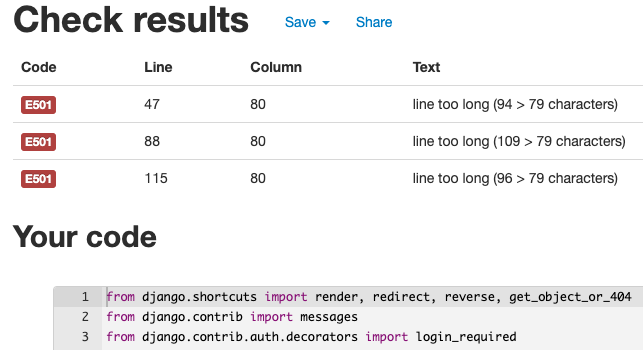
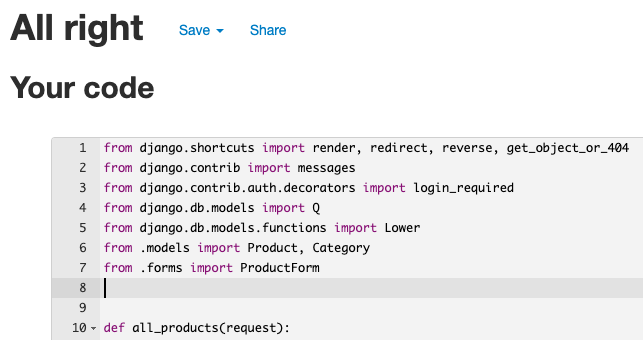
Make code PEP8 compliant

diff --git a/checkout/webhook_handler.py b/checkout/webhook_handler.py
@@ -65,8 +65,8 @@ class Webhook_Handler:
                 profile.default_country = shipping_details.address.country
                 profile.default_postcode = shipping_details.address.postal_code
                 profile.default_town_or_city = shipping_details.address.city
-                profile.default_street_address1 = shipping_details.address.line1
-                profile.default_street_address2 = shipping_details.address.line2
+                profile.default_street_address1 = shipping_details.address.line1  # noqa
+                profile.default_street_address2 = shipping_details.address.line2  # noqa
                 profile.default_county = shipping_details.address.state
                 profile.save()
 
@@ -96,7 +96,7 @@ class Webhook_Handler:
         if order_exists:
             self._send_confirmation_email(order)
             return HttpResponse(
-                content=f'Webhook received: {event["type"]} | SUCCESS: Verified order already in database', # noqa
+                content=f'Webhook received: {event["type"]} | SUCCESS: Verified order already in database',  # noqa
                 status=200)
         else:
             order = None
@@ -133,7 +133,7 @@ class Webhook_Handler:
                     status=500)
         self._send_confirmation_email(order)
         return HttpResponse(
-                            content=f'Webhook received: {event["type"]} | SUCCESS: Created order in webhook', # noqa
+                            content=f'Webhook received: {event["type"]} | SUCCESS: Created order in webhook',  # noqa
                             status=200)
 
     def handle_payment_intent_payment_failed(self, event):

diff --git a/products/views.py b/products/views.py
@@ -44,7 +44,7 @@ def all_products(request):
                 messages.error(request, "Please enter a search criteria!")
                 return redirect(reverse('products'))
 
-            queries = Q(name__icontains=search_query) | Q(description__icontains=search_query)
+            queries = Q(name__icontains=search_query) | Q(description__icontains=search_query)  # noqa
             products = products.filter(queries)
 
     current_sorting = f'{sort}_{direction}'
@@ -85,7 +85,7 @@ def add_product(request):
             messages.info(request, 'A new product was successfully added!')
             return redirect(reverse('product_details', args=[product.id]))
         else:
-            messages.error(request, 'The product could not be added. Please ensure the form input is valid.') # noqa
+            messages.error(request, 'The product could not be added. Please ensure the form input is valid.')  # noqa
     else:
         form = ProductForm()
 
@@ -112,7 +112,7 @@ def edit_product(request, product_id):
             messages.info(request, 'Updated product!')
             return redirect(reverse('product_details', args=[product.id]))
         else:
-            messages.error(request, 'Failed to update product. Ensure the form input is valid.')
+            messages.error(request, 'Failed to update product. Ensure the form input is valid.')  # noqa
     else:
         form = ProductForm(instance=product)
         messages.info(request, f'Editing {product.name}')

diff --git a/profiles/forms.py b/profiles/forms.py
@@ -30,5 +30,5 @@ class ProfilesForm(forms.ModelForm):
                 else:
                     placeholder = placeholders[field]
                 self.fields[field].widget.attrs['placeholder'] = placeholder
-            self.fields[field].widget.attrs['class'] = 'border-black rounded-0 profile-form-input' # noqa
+            self.fields[field].widget.attrs['class'] = 'border-black rounded-0 profile-form-input'  # noqa
             self.fields[field].label = False

diff --git a/products/widgets.py b/products/widgets.py
@@ -6,4 +6,4 @@ class CustomClearableFileInput(ClearableFileInput):
     clear_checkbox_label = _('Remove')
     initial_text = _('Current Image')
     input_text = _('')
-    template_name = 'products/custom_widget_templates/custom_clearable_file_input.html' # noqa
+    template_name = 'products/custom_widget_templates/custom_clearable_file_input.html'  # noqa

diff --git a/TEST.md b/TEST.md
@@ -190,12 +190,10 @@ urls.py
 ![](media/prod-urls.png)
 
 views.py 
-The to long lines were left because of time restraints which did not enable enough time to find solutions.
 
 ![](media/prod-views.png)
 
 widgets.py
-The to long line was left because of time restraints which did not enable enough time to find solutions.
 
 ![](media/prod-widgets.png)
 
@@ -210,7 +208,6 @@ apps.py
 ![](media/prof-apps.png)
 
 forms.py
-The to long line was left because of time restraints which did not enable enough time to find solutions.
 
 ![](media/prof-forms.png)
 
